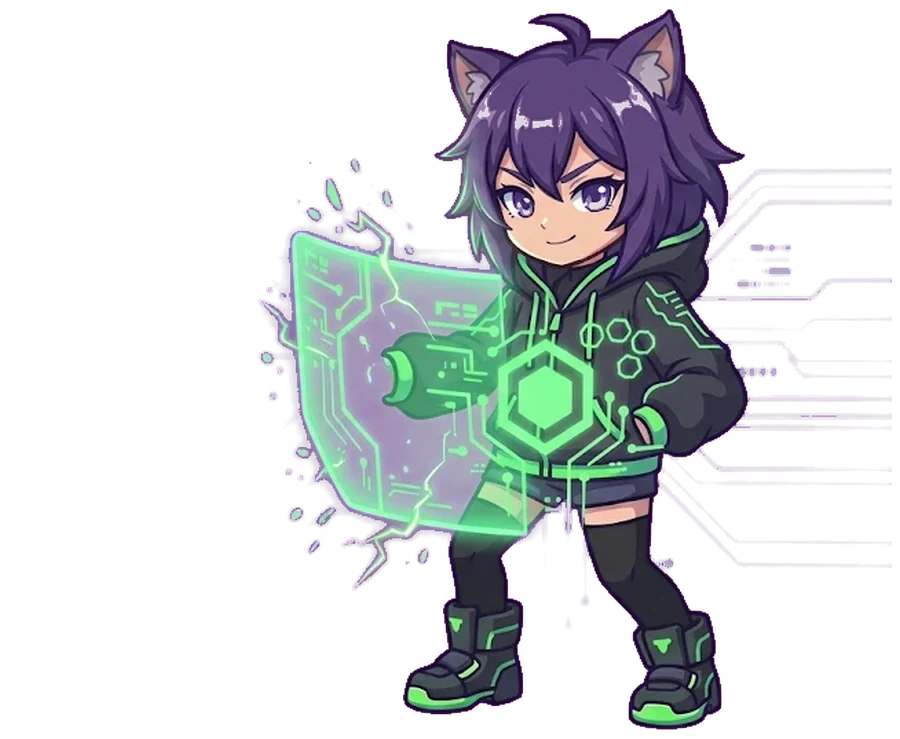
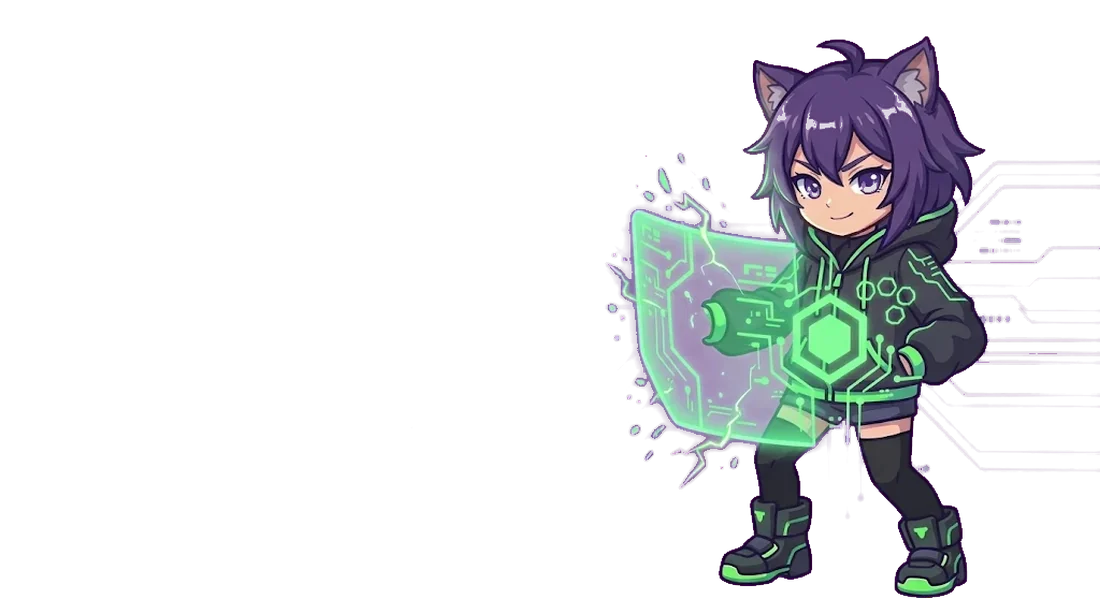
art: new connecting pose, log empty state, waving mascot, cat-shield tray glyph

diff --git a/app/src/screens/Logs.tsx b/app/src/screens/Logs.tsx
@@ -39,12 +39,22 @@ export function LogsScreen({ t, conn, error }: Props) {
         </button>
       </div>
 
-      <div
-        className="card logbox"
-        style={{ fontFamily: "var(--mono)", fontSize: 11.5, lineHeight: 1.7, whiteSpace: "pre-wrap" }}
-      >
-        {text ? text : <span className="muted">{t("logsEmpty")}</span>}
-      </div>
+      {text ? (
+        <div
+          className="card logbox"
+          style={{ fontFamily: "var(--mono)", fontSize: 11.5, lineHeight: 1.7, whiteSpace: "pre-wrap" }}
+        >
+          {text}
+        </div>
+      ) : (
+        <div className="card empty-box">
+          <img src="/mascot/log-empty.webp" alt="" draggable={false} />
+          <div>
+            <h3>{t("logsEmptyTitle")}</h3>
+            <p className="muted">{t("logsEmpty")}</p>
+          </div>
+        </div>
+      )}
 
       <div className="muted" style={{ marginTop: 10 }}>
         state: {conn}

diff --git a/app/src/i18n.ts b/app/src/i18n.ts
@@ -29,6 +29,7 @@ const dict: Dict = {
     en: "Paste your provider link and the servers will show up here.",
   },
   welcomeCta: { ru: "Добавить подписку", en: "Add subscription" },
+  logsEmptyTitle: { ru: "Журнал пуст", en: "Log is empty" },
   noServersTitle: { ru: "Список пуст", en: "Nothing here yet" },
   noServersText: {
     ru: "Обнови подписку или вставь ссылку на сервер вручную.",

diff --git a/app/src/styles.css b/app/src/styles.css
@@ -159,7 +159,7 @@
 
 .welcome-art {
   width: 100%;
-  max-height: 104px;
+  max-height: 118px;
   object-fit: contain;
   object-position: right center;
   filter: drop-shadow(0 10px 24px rgba(0, 0, 0, 0.35));
@@ -601,7 +601,7 @@ input {
   --k: 1.08;
 }
 .orb[data-state="connecting"] .mascot {
-  --k: 0.93;
+  --k: 0.94;
 }
 .orb[data-state="connected"] .mascot {
   --k: 0.94;

diff --git a/app/src/screens/Home.tsx b/app/src/screens/Home.tsx
@@ -76,7 +76,7 @@ export function HomeScreen(p: Props) {
               {t("welcomeCta")}
             </button>
           </div>
-          <img className="welcome-art" src="/mascot/banner.webp" alt="" draggable={false} />
+          <img className="welcome-art" src="/mascot/wave.webp" alt="" draggable={false} />
         </div>
       )}
       <section className="hero">

diff --git a/art/tools/cutout.py b/art/tools/cutout.py
@@ -143,6 +143,8 @@ def make_states() -> None:
         ("state_connected_raw.png", "state_connected.png"),
         ("state_error_raw.png", "state_error.png"),
         ("state_empty_raw.png", "state_empty.png"),
+        ("state_log_empty_raw.png", "state_log_empty.png"),
+        ("state_wave_raw.png", "state_wave.png"),
         ("banner_hero_raw.png", "banner_hero.png"),
     ):
         im = cutout(RAW / src, OUT / dst, trim=False)
@@ -156,14 +158,14 @@ def main() -> None:
     # keep the original canvas for states: character stays in place across frames
     idle = cutout(RAW / "state_idle_sleep.png", OUT / "state_idle.png", trim=False)
     recolor_z(idle).save(OUT / "state_idle.png")
-    cutout(RAW / "state_connecting.png", OUT / "state_connecting.png", trim=False)
+    cutout(RAW / "state_connecting2_raw.png", OUT / "state_connecting.png", trim=False)
     make_states()
     # already dark artwork: no keying, just ship it
     for src, dst, size in (("bg_texture_raw.png", "bg_texture.png", 720),
                            ("banner_installer_raw.png", "banner_installer.png", 1024)):
         im = Image.open(RAW / src).convert("RGB")
         im.resize((size, int(size * im.height / im.width)), Image.LANCZOS).save(OUT / dst)
-    make_glyph(RAW / "glyph.png")
+    make_glyph(RAW / "glyph2_raw.png")
     for p in sorted(OUT.iterdir()):
         print(f"{p.name:24} {Image.open(p).size}")
 

diff --git a/art/tools/optimize.py b/art/tools/optimize.py
@@ -12,6 +12,8 @@ JOBS = [
     ("state_idle.png", "idle.webp", 720),
     ("state_connecting.png", "connecting.webp", 720),
     ("state_empty.png", "empty.webp", 520),
+    ("state_log_empty.png", "log-empty.webp", 520),
+    ("state_wave.png", "wave.webp", 720),
     ("banner_hero.png", "banner.webp", 1100),
 ]
 
